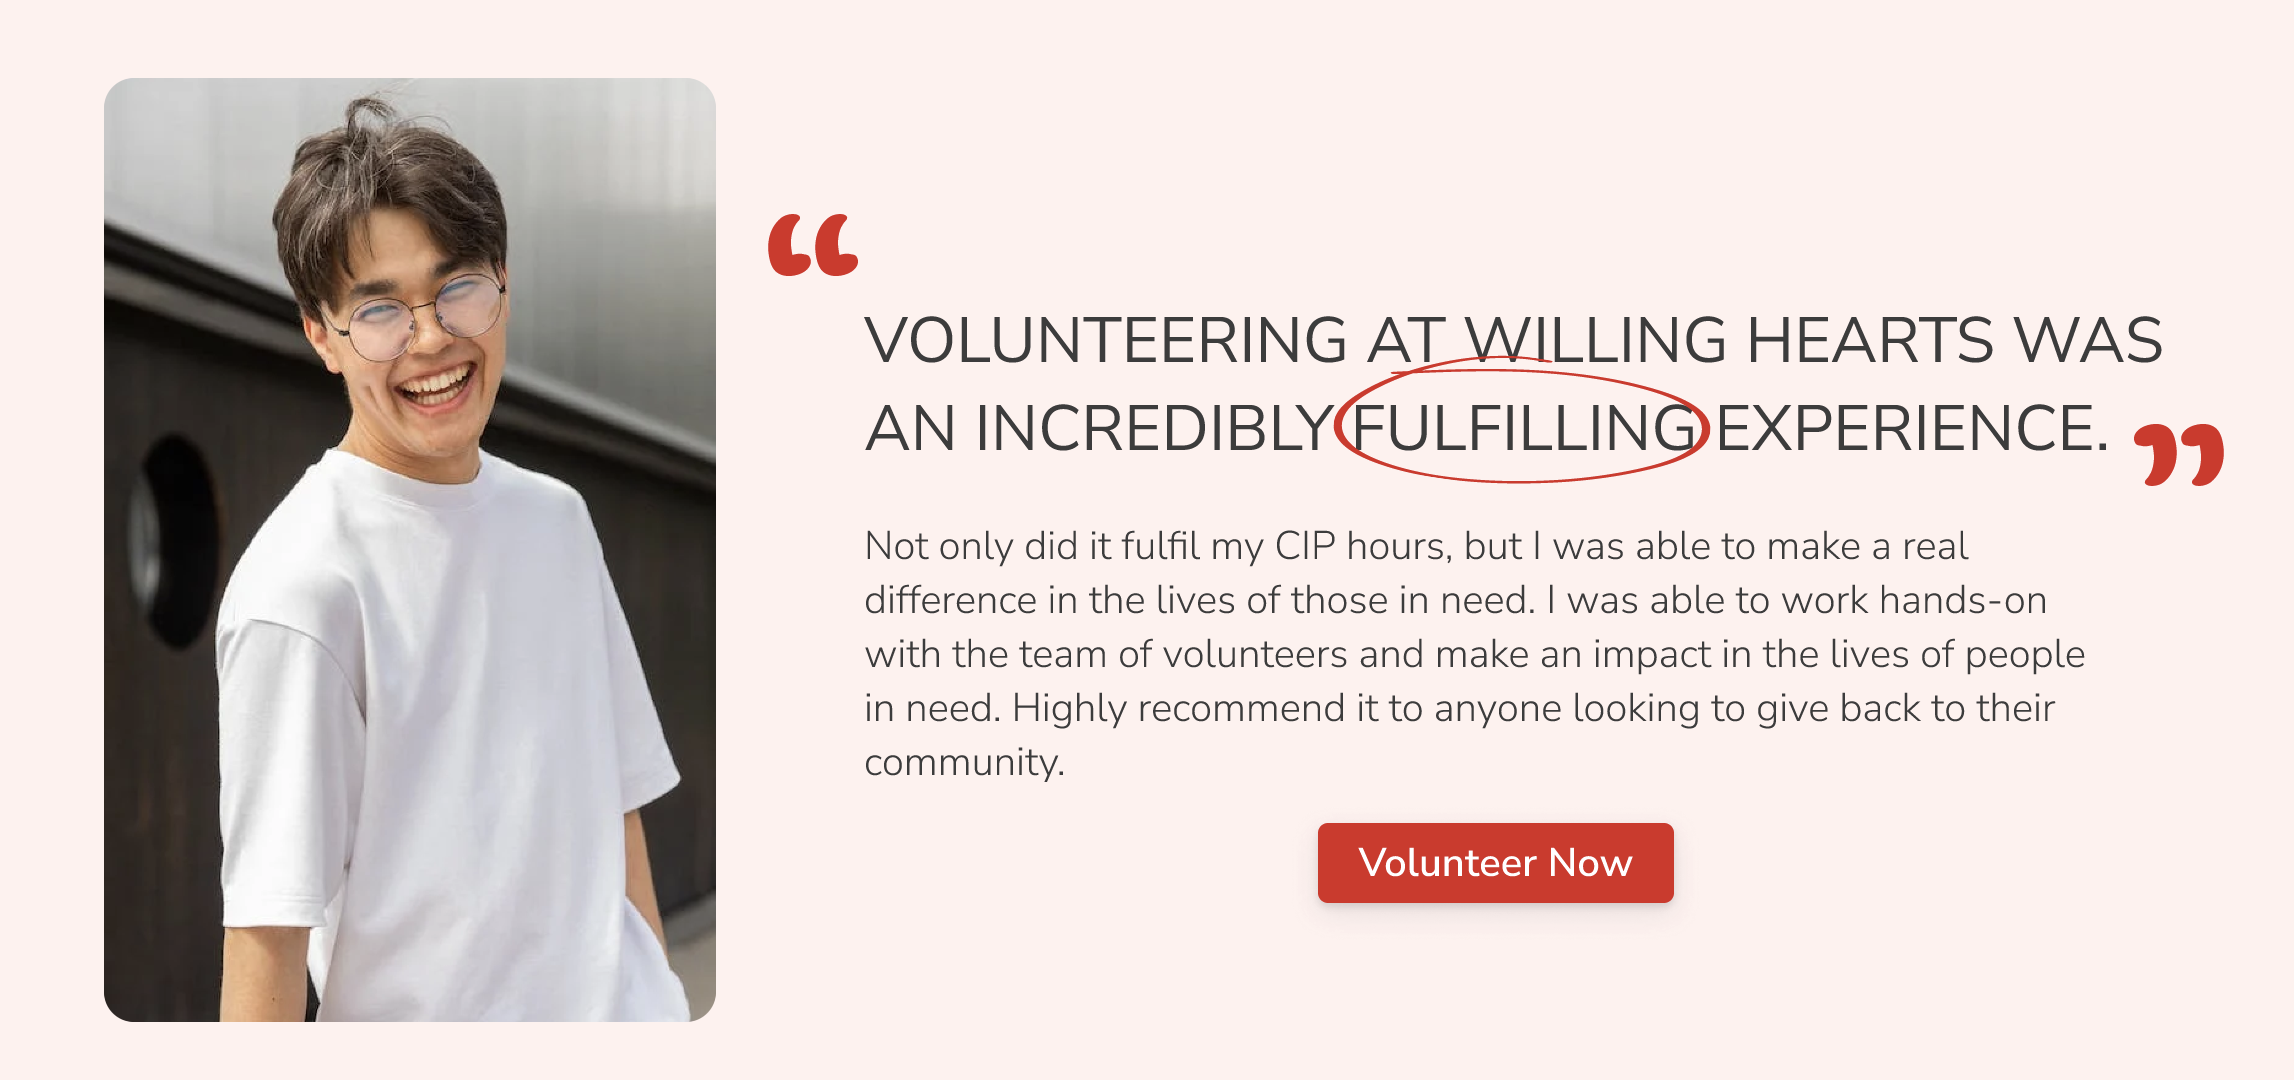
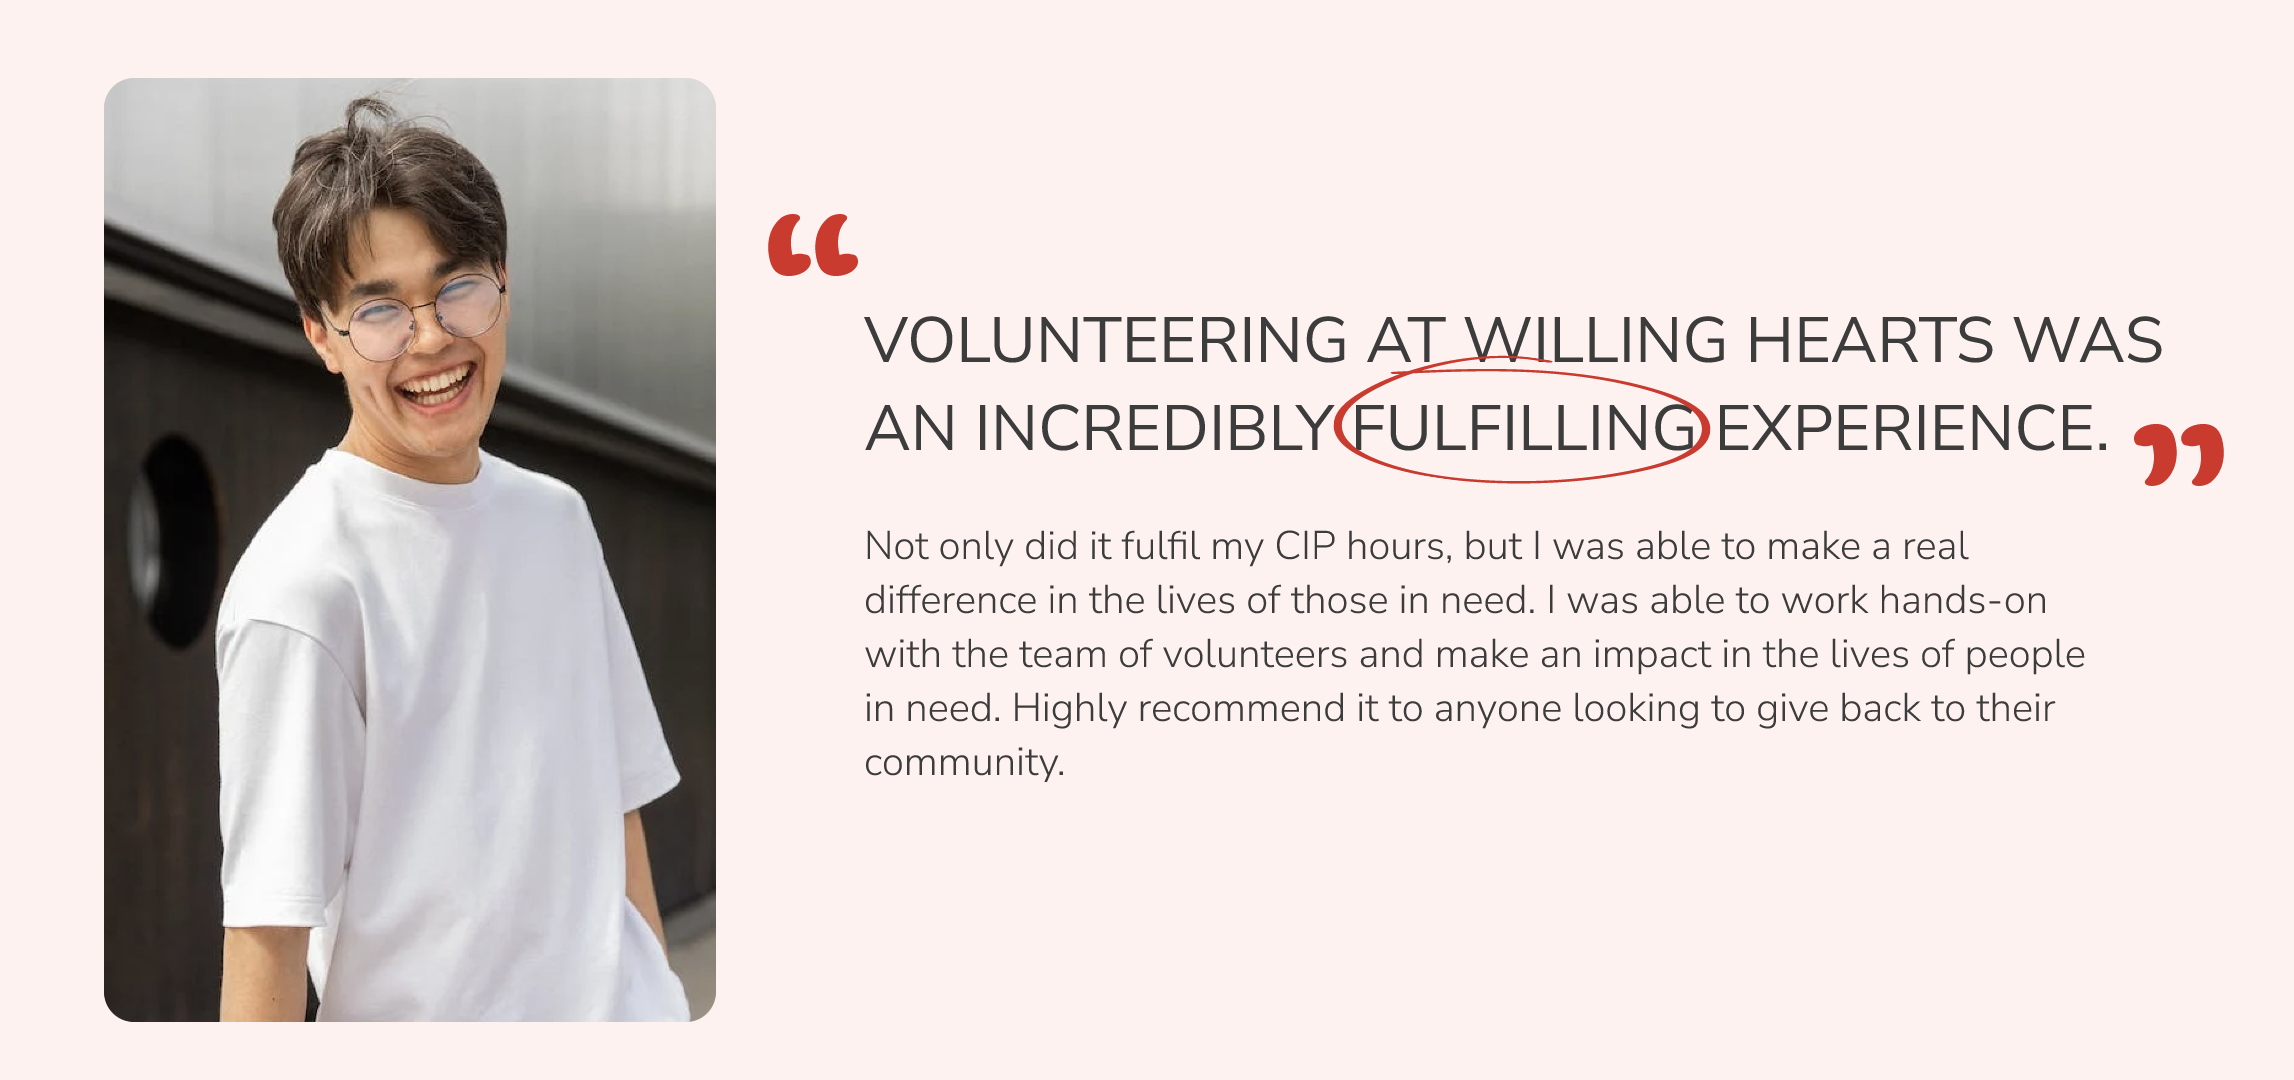
Updated carousel with workable buttons

Changed region(s): [[0.5571, 0.7639, 0.7428, 0.8556]]

diff --git a/src/comp-homepage/Homepage.jsx b/src/comp-homepage/Homepage.jsx
@@ -7,7 +7,7 @@ import { Carousel } from "react-responsive-carousel";
 import BaseButton from "../comp-commons/BaseButton";
 import AccordianWrapper from "../comp-commons/AccordianWrapper";
 import Footer from "../comp-commons/Footer";
-import { Link } from "react-router-dom";
+import { NavLink, Link } from "react-router-dom";
 import otherProjectsDataset from "./datasets/otherProjsDataset";
 import OtherProjsCard from "./Components/OtherProjsCard";
 
@@ -214,21 +214,21 @@ const Homepage = () => {
           >
             <div>
               <img src="public/Images/Homepage/volunteer-carousell.png" />
-            </div>
-            <div>
-              {/* <div className="flex">
-                <img
-                  className="object-scale-down h-98 w-96 rounded-lg overflow-hidden"
-                  src="public/Images/Homepage/uniBoy.png"
-                />
-                <div>
-                  "VOLUNTEERING AT WILLING HEARTS WAS AN INCREADIBLY FUFILLING
-                  EXPERIENCE"
-                </div>
-              </div> */}
+              <NavLink to="/volunteer" className="relative bottom-32 left-36">
+                <BaseButton label="Volunteer Now" colour="red" />
+              </NavLink>
             </div>
             <div>
               <img src="public/Images/Homepage/volunteer-carousell.png" />
+              <NavLink to="/volunteer" className="relative bottom-32 left-36">
+                <BaseButton label="Volunteer Now" colour="red" />
+              </NavLink>
+            </div>
+            <div>
+              <img src="public/Images/Homepage/volunteer-carousell.png" />
+              <NavLink to="/volunteer" className="relative bottom-32 left-36">
+                <BaseButton label="Volunteer Now" colour="red" />
+              </NavLink>
             </div>
           </Carousel>
         </section>
